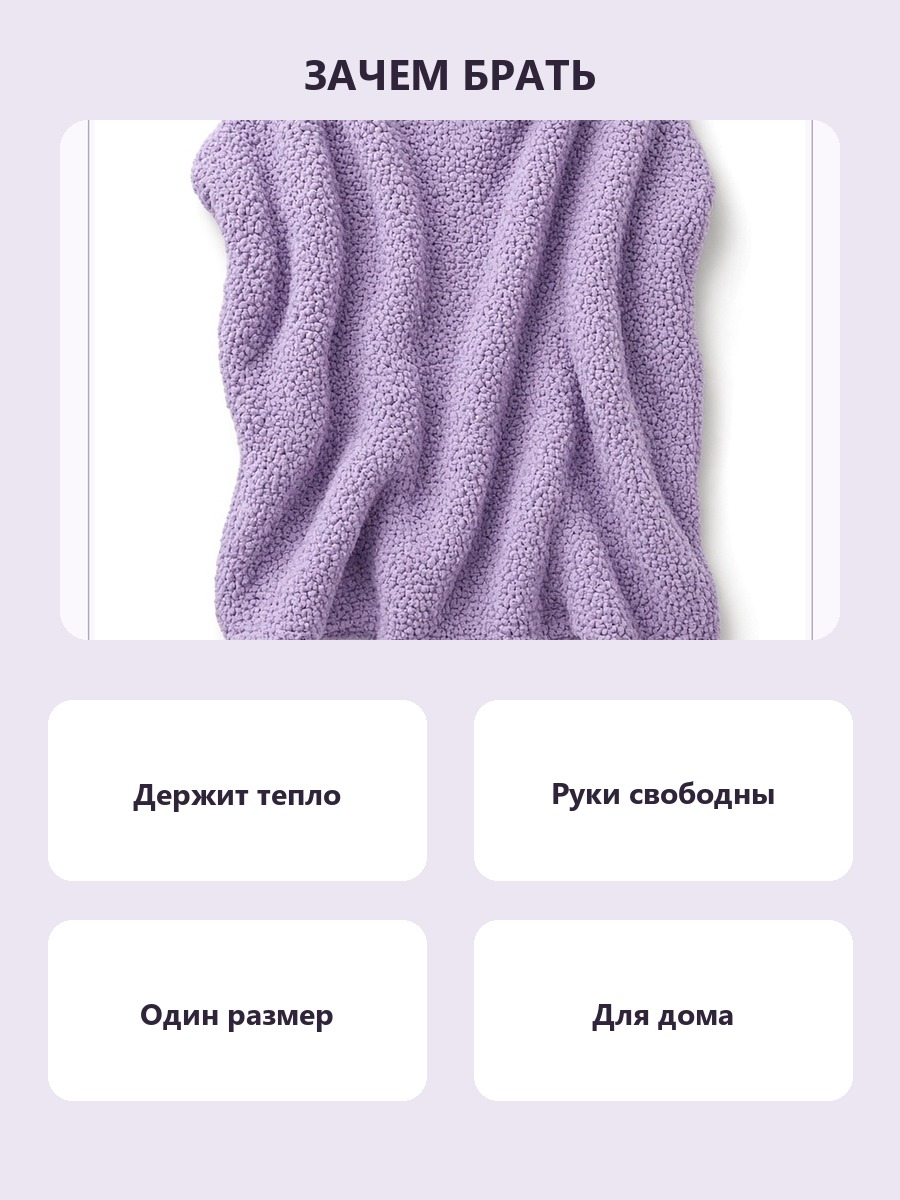
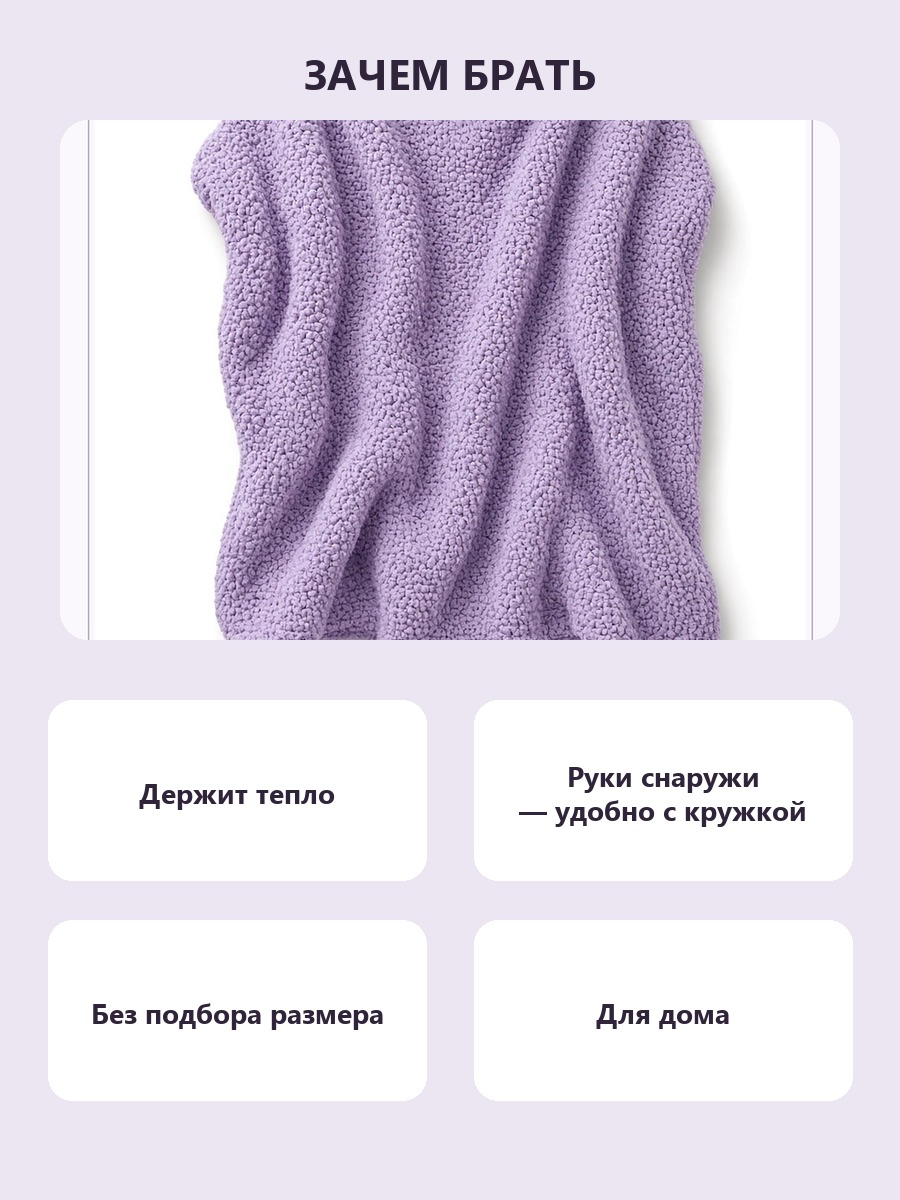
Add shelf height on side view; clarify poncho benefit copy.
Side view now marks board height 50 mm. Poncho 03 explains hands-free and sizing; drop one-size line from care.

diff --git a/public/marketplace/index.html b/public/marketplace/index.html
@@ -214,9 +214,9 @@
           <p class="mp-case__text">Обложка, интерьер, размеры и нагрузка, выгоды и сравнение с громоздким шкафом.</p>
         </div>
         <div class="mp-slides">
-          <figure class="mp-slide"><img src="../images/marketplace/case2/01_cover.jpg?v=20261027g" alt="Обложка навесной полки" loading="lazy" width="450" height="600"><figcaption>01 · обложка</figcaption></figure>
+          <figure class="mp-slide"><img src="../images/marketplace/case2/01_cover.jpg?v=20261027h" alt="Обложка навесной полки" loading="lazy" width="450" height="600"><figcaption>01 · обложка</figcaption></figure>
           <figure class="mp-slide"><img src="../images/marketplace/case2/02_lifestyle.jpg" alt="Полка в интерьере" loading="lazy" width="450" height="600"><figcaption>02 · в интерьере</figcaption></figure>
-          <figure class="mp-slide"><img src="../images/marketplace/case2/03_specs_dims.jpg?v=20261027g" alt="Размеры и нагрузка" loading="lazy" width="450" height="600"><figcaption>03 · размеры</figcaption></figure>
+          <figure class="mp-slide"><img src="../images/marketplace/case2/03_specs_dims.jpg?v=20261027h" alt="Размеры и нагрузка" loading="lazy" width="450" height="600"><figcaption>03 · размеры</figcaption></figure>
           <figure class="mp-slide"><img src="../images/marketplace/case2/04_benefits.jpg?v=20261027f" alt="Выгоды полки" loading="lazy" width="450" height="600"><figcaption>04 · выгоды</figcaption></figure>
           <figure class="mp-slide"><img src="../images/marketplace/case2/05_compare.jpg?v=20261027f" alt="Сравнение со шкафом" loading="lazy" width="450" height="600"><figcaption>05 · сравнение</figcaption></figure>
         </div>
@@ -231,9 +231,9 @@
         <div class="mp-slides">
           <figure class="mp-slide"><img src="../images/marketplace/case3/01_cover.jpg" alt="Обложка плед-пончо" loading="lazy" width="450" height="600"><figcaption>01 · обложка</figcaption></figure>
           <figure class="mp-slide"><img src="../images/marketplace/case3/02_product.jpg" alt="Фактура и крой" loading="lazy" width="450" height="600"><figcaption>02 · товар</figcaption></figure>
-          <figure class="mp-slide"><img src="../images/marketplace/case3/03_benefits.jpg?v=20261027f" alt="Выгоды" loading="lazy" width="450" height="600"><figcaption>03 · выгоды</figcaption></figure>
+          <figure class="mp-slide"><img src="../images/marketplace/case3/03_benefits.jpg?v=20261027h" alt="Выгоды" loading="lazy" width="450" height="600"><figcaption>03 · выгоды</figcaption></figure>
           <figure class="mp-slide"><img src="../images/marketplace/case3/04_scenarios.jpg?v=20261027f" alt="Когда носить" loading="lazy" width="450" height="600"><figcaption>04 · сценарии</figcaption></figure>
-          <figure class="mp-slide"><img src="../images/marketplace/case3/05_care.jpg?v=20261027f" alt="Состав и уход" loading="lazy" width="450" height="600"><figcaption>05 · уход</figcaption></figure>
+          <figure class="mp-slide"><img src="../images/marketplace/case3/05_care.jpg?v=20261027h" alt="Состав и уход" loading="lazy" width="450" height="600"><figcaption>05 · уход</figcaption></figure>
         </div>
       </article>
     </div>

diff --git a/public/showcase/mp/index.html b/public/showcase/mp/index.html
@@ -142,7 +142,7 @@
           <h3 class="mp-case__title">Навесная полка</h3>
         </div>
         <div class="mp-slides">
-          <figure class="mp-slide"><img src="../../images/marketplace/case2/01_cover.jpg?v=20261027g" alt="" loading="lazy" width="450" height="600"></figure>
+          <figure class="mp-slide"><img src="../../images/marketplace/case2/01_cover.jpg?v=20261027h" alt="" loading="lazy" width="450" height="600"></figure>
           <figure class="mp-slide"><img src="../../images/marketplace/case2/04_benefits.jpg?v=20261027f" alt="" loading="lazy" width="450" height="600"></figure>
           <figure class="mp-slide"><img src="../../images/marketplace/case2/05_compare.jpg?v=20261027f" alt="" loading="lazy" width="450" height="600"></figure>
         </div>
@@ -156,7 +156,7 @@
         <div class="mp-slides">
           <figure class="mp-slide"><img src="../../images/marketplace/case3/01_cover.jpg" alt="" loading="lazy" width="450" height="600"></figure>
           <figure class="mp-slide"><img src="../../images/marketplace/case3/04_scenarios.jpg?v=20261027f" alt="" loading="lazy" width="450" height="600"></figure>
-          <figure class="mp-slide"><img src="../../images/marketplace/case3/05_care.jpg?v=20261027f" alt="" loading="lazy" width="450" height="600"></figure>
+          <figure class="mp-slide"><img src="../../images/marketplace/case3/05_care.jpg?v=20261027h" alt="" loading="lazy" width="450" height="600"></figure>
         </div>
       </article>
 

diff --git a/scripts/mp_layout_kit/fix_copy_slides.py b/scripts/mp_layout_kit/fix_copy_slides.py
@@ -202,10 +202,20 @@ def fix_poncho_benefits():
     positions = [(48, 700), (474, 700), (48, 920), (474, 920)]
     for text, (x, y) in zip(items, positions):
         draw.rounded_rectangle((x, y, x + 378, y + 180), 24, fill=(255, 255, 255))
-        font = fnt(30, True)
-        bb = draw.textbbox((0, 0), text, font=font)
-        tw, th = bb[2] - bb[0], bb[3] - bb[1]
-        draw.text((x + (378 - tw) / 2, y + (180 - th) / 2 - 4), text, font=font, fill=ink)
+        font = fnt(28, True)
+        # Prefer natural break on em dash / hyphen for long lines
+        if " — " in text:
+            a, b = text.split(" — ", 1)
+            lines = [a, "— " + b]
+        else:
+            lines = [text]
+        line_h = 34
+        total = line_h * len(lines)
+        ty = y + (180 - total) / 2
+        for i, line in enumerate(lines):
+            bb = draw.textbbox((0, 0), line, font=font)
+            tw = bb[2] - bb[0]
+            draw.text((x + (378 - tw) / 2, ty + i * line_h), line, font=font, fill=ink)
 
     out.save(IMG / "case3" / "03_benefits.jpg", quality=92, optimize=True)
     print("fixed poncho benefits")
@@ -259,15 +269,19 @@ def fix_poncho_care():
     photo = fit_cover(fabric, (400, 980))
     paste_rounded(out, photo, (40, 140), 24)
 
-    y = 160
-    for item in c["items"]:
-        draw.rounded_rectangle((470, y, W - 40, y + 150), 22, fill=(255, 255, 255))
+    items = c["items"]
+    card_h = 170
+    gap = 28
+    block = len(items) * card_h + (len(items) - 1) * gap
+    y = 140 + max(0, (980 - block) // 2)
+    for item in items:
+        draw.rounded_rectangle((470, y, W - 40, y + card_h), 22, fill=(255, 255, 255))
         font = fnt(28)
         line = "•  " + item
         bb = draw.textbbox((0, 0), line, font=font)
         th = bb[3] - bb[1]
-        draw.text((500, y + (150 - th) / 2 - 4), line, font=font, fill=ink)
-        y += 175
+        draw.text((500, y + (card_h - th) / 2 - 4), line, font=font, fill=ink)
+        y += card_h + gap
 
     out.save(IMG / "case3" / "05_care.jpg", quality=92, optimize=True)
     print("fixed poncho care")

diff --git a/scripts/mp_layout_kit/rebuild_shelf_dims.py b/scripts/mp_layout_kit/rebuild_shelf_dims.py
@@ -157,19 +157,24 @@ def build() -> Path:
     draw.line((fx1, fbot + 2, fx1, dim_y - 8), fill=LINE, width=1)
     dim_h(draw, fx0, fx1, dim_y, "720 мм", label_font, gap=0)
 
-    # Side view — depth
-    side_box = (560, diagram_top, 830, diagram_top + 160)
+    # Side view — depth + height (board thickness)
+    side_box = (560, diagram_top, 800, diagram_top + 160)
     draw.text((560, diagram_top - 28), "вид сбоку", font=caption_font, fill=MUTED)
     bx0, top, bx1, bot, wall_x = draw_side_shelf(draw, side_box)
-    # depth dim BELOW the board, measuring wall→front (actual depth of shelf)
+    # depth dim BELOW the board, wall → front
     dim_y2 = bot + 36
     draw.line((bx0, bot + 2, bx0, dim_y2 - 8), fill=LINE, width=1)
     draw.line((bx1, bot + 2, bx1, dim_y2 - 8), fill=LINE, width=1)
     dim_h(draw, bx0, bx1, dim_y2, "150 мм", label_font, gap=0)
+    # height dim to the RIGHT of the board face
+    dim_x = bx1 + 28
+    draw.line((bx1 + 2, top, dim_x - 8, top), fill=LINE, width=1)
+    draw.line((bx1 + 2, bot, dim_x - 8, bot), fill=LINE, width=1)
+    dim_v(draw, top, bot, dim_x, "50 мм", fnt(22, True), gap=10)
 
     # helper labels under diagrams
     draw.text((70, dim_y + 28), "длина", font=caption_font, fill=MUTED)
-    draw.text((560, dim_y2 + 28), "глубина", font=caption_font, fill=MUTED)
+    draw.text((560, dim_y2 + 28), "глубина · высота", font=caption_font, fill=MUTED)
 
     # --- Spec chips (tight under diagrams — avoid empty mid band) ---
     chip_y = max(dim_y, dim_y2) + 78
